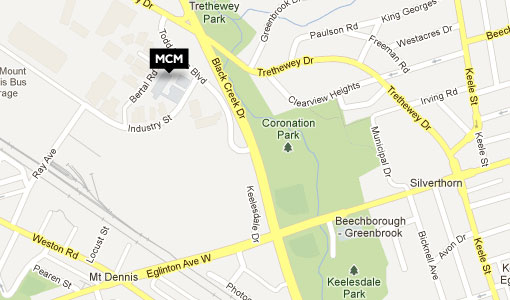
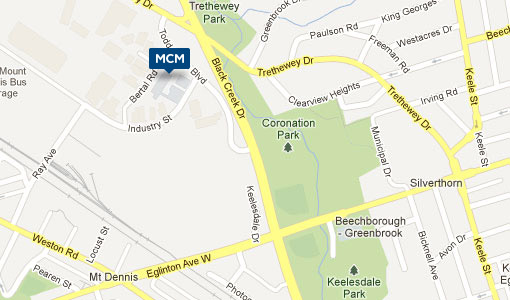
change MCM marker to blue and remove Unit 9 from address

Changed region(s): [[0.2941, 0.15, 0.3824, 0.24]]

diff --git a/index.html b/index.html
@@ -290,7 +290,7 @@ LOCATION
 			
 				<div class="address">
 					<p>Millworks Custom Manufacturing (2001) Inc.</p>
-					<p><a class="link" href="https://maps.google.ca/maps?q=25+Bertal+Road,+Unit+%239+Toronto,+ON+M6M+4M7&hl=en&ll=43.692747,-79.487844&spn=0.007703,0.013958&sll=43.693523,-79.486138&sspn=0.007703,0.013958&gl=ca&hnear=25+Bertal+Rd+%239,+Toronto,+Toronto+Division,+Ontario+M6M+4L5&t=m&z=17" target="_blank">25 Bertal Road, Unit #9<br />
+					<p><a class="link" href="https://maps.google.ca/maps?q=25+Bertal+Road,+Unit+%239+Toronto,+ON+M6M+4M7&hl=en&ll=43.692747,-79.487844&spn=0.007703,0.013958&sll=43.693523,-79.486138&sspn=0.007703,0.013958&gl=ca&hnear=25+Bertal+Rd+%239,+Toronto,+Toronto+Division,+Ontario+M6M+4L5&t=m&z=17" target="_blank">25 Bertal Road<br />
 						Toronto, ON  M6M 4M7</a></p>
 					<p>416 760 0222 &ndash; Phone<br />
 						416 760 0228 &ndash; Fax<br />
